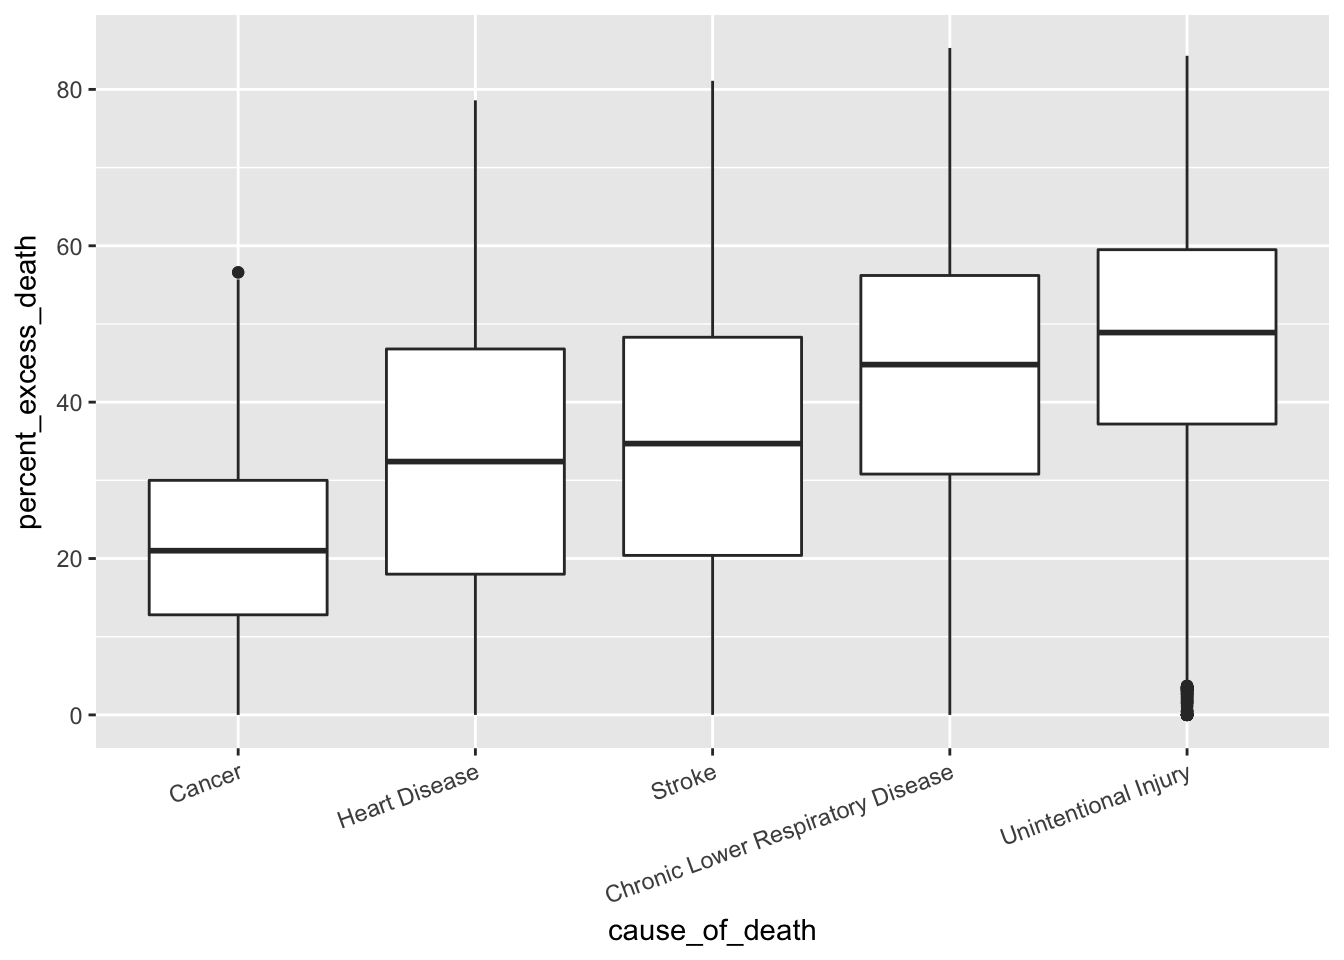
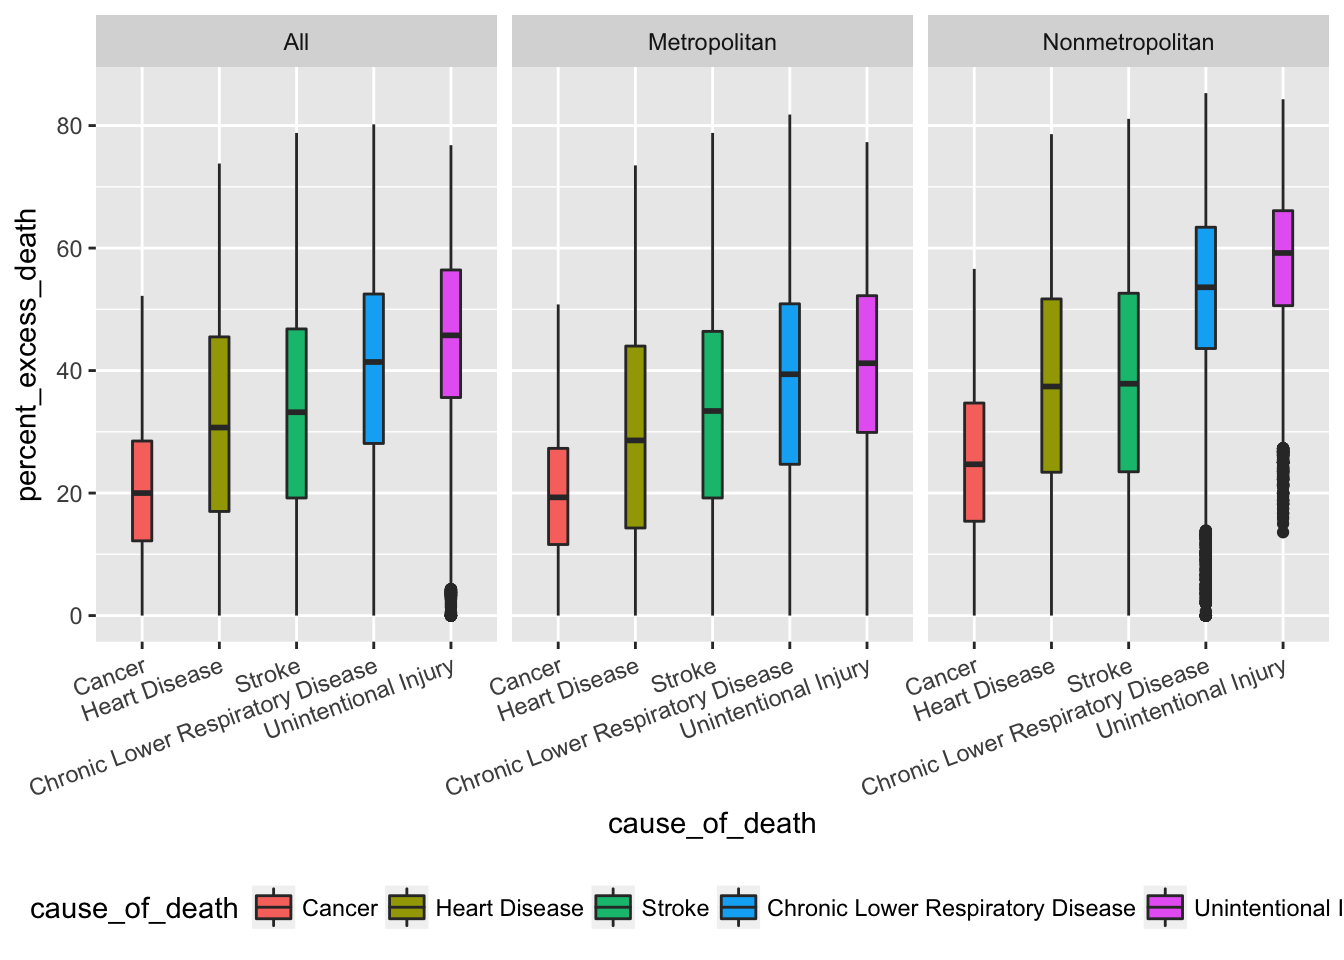
facet graph_yz by locality knit

diff --git a/p8105_final_project.html b/p8105_final_project.html
@@ -216,7 +216,8 @@ $(document).ready(function () {
   na.omit() %&gt;%
   filter(!(state == &quot;United States&quot;)) %&gt;%
   separate(., percent_potentially_excess_deaths, into = c(&quot;percent_excess_death&quot;), sep = &quot;%&quot;) %&gt;%
-  mutate(percent_excess_death = as.numeric(percent_excess_death), mortality = observed_deaths/population * 10000, mortality = as.numeric(mortality)) </code></pre>
+  mutate(percent_excess_death = as.numeric(percent_excess_death), mortality = observed_deaths/population * 10000, mortality = as.numeric(mortality)) %&gt;%
+  select(year, cause_of_death, state, locality, observed_deaths, population, expected_deaths, potentially_excess_deaths, percent_excess_death, mortality)</code></pre>
 <pre><code>## Parsed with column specification:
 ## cols(
 ##   Year = col_integer(),
@@ -235,6 +236,9 @@ $(document).ready(function () {
 ## )</code></pre>
 <pre><code>## Warning: Too many values at 191748 locations: 1, 2, 3, 4, 5, 6, 7, 8, 9,
 ## 10, 11, 12, 13, 14, 15, 16, 17, 18, 19, 20, ...</code></pre>
+<pre class="r"><code>##columns removed
+
+ #&quot;state_fips_code&quot;           &quot;hhs_region&quot;                &quot;age_range&quot;    &quot;benchmark&quot;   &quot;potentially_excess_deaths&quot; &quot;percent_excess_death&quot;      &quot;mortality&quot;   </code></pre>
 <ul>
 <li>the <code>year</code> variable contains data collected from 2005-2015.</li>
 <li>filtered out <code>United States</code> in the <code>state</code> variable.</li>
@@ -278,7 +282,8 @@ summary(mortality_lm)</code></pre>
 ## Multiple R-squared:  0.01821,    Adjusted R-squared:  0.0182 
 ## F-statistic:  1778 on 2 and 191745 DF,  p-value: &lt; 2.2e-16</code></pre>
 <p>&lt;&lt;&lt;&lt;&lt;&lt;&lt; HEAD</p>
-<pre class="r"><code>gp_cod_data = cod_data
+<pre class="r"><code>### Question of concern: If percent excess death has significant difference between metro and non-metro groups.
+gp_cod_data = cod_data
 ggplot(gp_cod_data, aes(x = year, y = percent_excess_death, fill = locality)) + geom_bar(stat = &quot;identity&quot;)+
 facet_grid(. ~ locality) </code></pre>
 <p><img src="p8105_final_project_files/figure-html/wp2241-1.png" width="672" /></p>
@@ -298,23 +303,26 @@ geom_bar(aes(fill = cause_of_death), stat = &quot;identity&quot;)</code></pre>
 library(forcats)
 names(cod_data)</code></pre>
 <pre><code>##  [1] &quot;year&quot;                      &quot;cause_of_death&quot;           
-##  [3] &quot;state&quot;                     &quot;state_fips_code&quot;          
-##  [5] &quot;hhs_region&quot;                &quot;age_range&quot;                
-##  [7] &quot;benchmark&quot;                 &quot;locality&quot;                 
-##  [9] &quot;observed_deaths&quot;           &quot;population&quot;               
-## [11] &quot;expected_deaths&quot;           &quot;potentially_excess_deaths&quot;
-## [13] &quot;percent_excess_death&quot;      &quot;mortality&quot;</code></pre>
+##  [3] &quot;state&quot;                     &quot;locality&quot;                 
+##  [5] &quot;observed_deaths&quot;           &quot;population&quot;               
+##  [7] &quot;expected_deaths&quot;           &quot;potentially_excess_deaths&quot;
+##  [9] &quot;percent_excess_death&quot;      &quot;mortality&quot;</code></pre>
 <pre class="r"><code>cod_data %&gt;%
   na.omit %&gt;%
   group_by(cause_of_death) %&gt;%
   mutate(mean_percent_excess_death = mean(percent_excess_death)) %&gt;%
   ungroup(cause_of_death) %&gt;%
   mutate(cause_of_death = fct_reorder(cause_of_death, mean_percent_excess_death)) %&gt;%
-  ggplot(aes(x = cause_of_death, y = percent_excess_death)) +
+  ggplot(aes(x = cause_of_death, y = percent_excess_death, fill = cause_of_death)) +
   geom_boxplot() +
-  theme(axis.text.x = element_text(angle = 20, hjust = 1))</code></pre>
+  facet_grid(~locality) +
+  theme(axis.text.x = element_text(angle = 20, hjust = 1))  +
+  theme(legend.position = &quot;bottom&quot;)</code></pre>
 <p><img src="p8105_final_project_files/figure-html/yz3306.1-1.png" width="672" /></p>
-<pre class="r"><code>cod_lm = lm(percent_excess_death ~cause_of_death, data = cod_data)
+<pre class="r"><code>#regress percent of excess death on cause of death, which is a categorical variable.
+#with respect to cancer, the least of the five causes, all 4 have additional percent of death as evaluated by the estimates. The results give statisically significant estimates 
+
+cod_lm = lm(percent_excess_death ~cause_of_death, data = cod_data)
 broom::tidy(cod_lm)</code></pre>
 <pre><code>##                                              term estimate  std.error
 ## 1                                     (Intercept) 21.60686 0.08399078
